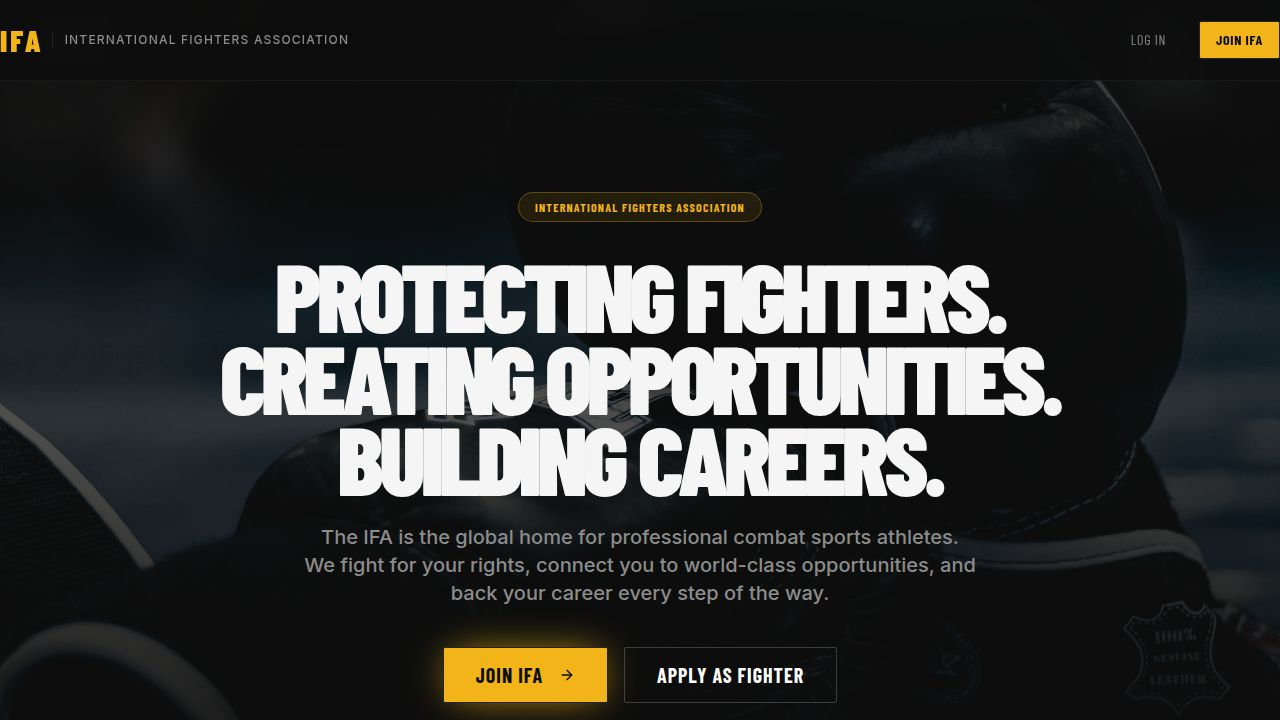
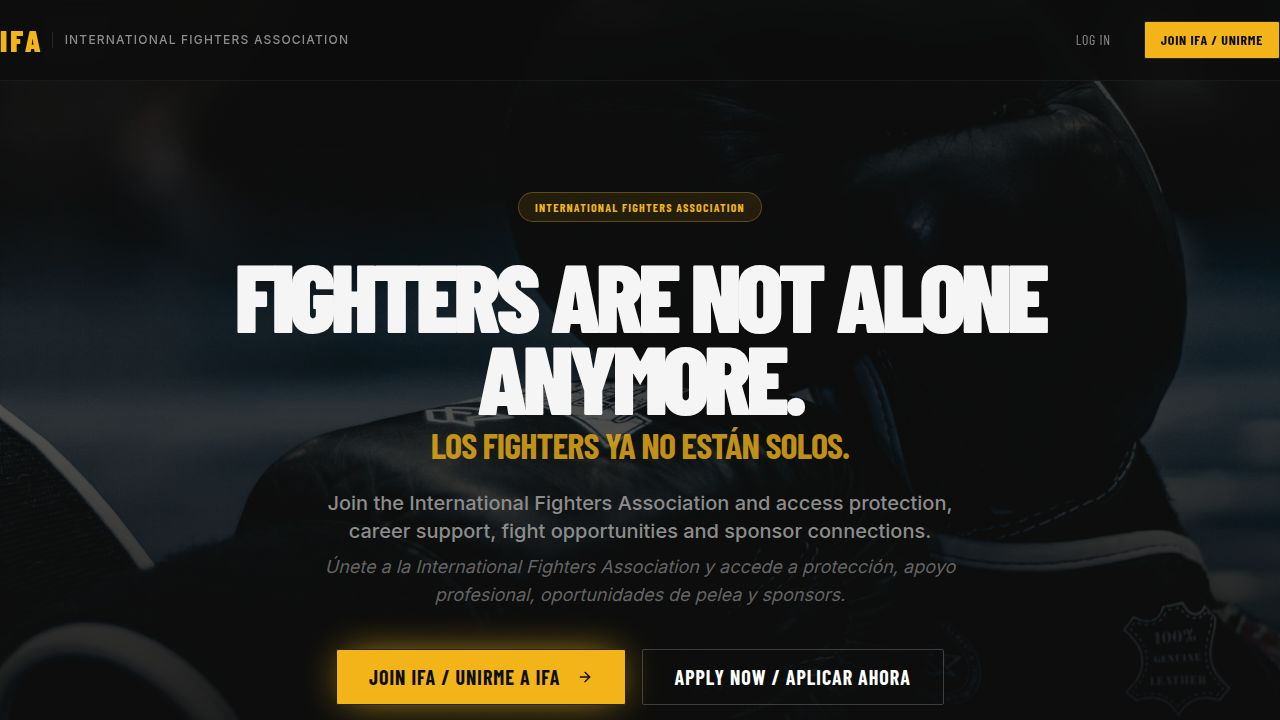
Task #4: Let admins search and filter the fighter applications list
Implemented server-side filtering for the admin fighter applications list:

OpenAPI spec (lib/api-spec/openapi.yaml):
- Added q, status, and discipline query params to GET /admin/fighter-applications

API server (artifacts/api-server/src/routes/admin.ts):
- Extended GET /admin/fighter-applications to accept q, status, discipline query params
- q performs case-insensitive ILIKE search on name and email columns via Drizzle ORM
- status filters by pending/approved/rejected with allowlist validation
- discipline performs case-insensitive ILIKE match
- Multiple active filters are combined with AND via Drizzle's and(...conditions)
- Fixed pre-existing TS2345 type error in requireAdmin (userId as string cast)

API client codegen (lib/api-client-react/src/generated/):
- Ran codegen to regenerate hooks and schemas from updated OpenAPI spec
- Generated AdminListFighterApplicationsParams type with q, status, discipline fields
- useAdminListFighterApplications hook now accepts optional params sent as query params

Frontend (artifacts/fighters-room/src/pages/admin-applications.tsx):
- State declarations moved before hook call to fix reference-before-declaration
- Added debouncedSearch state + useEffect (350ms debounce) to avoid API requests on every keystroke
- apiParams useMemo builds server-side filter object from debounced search, status, discipline
- useAdminListFighterApplications now receives apiParams for targeted API calls per filter change
[…]

Changed region(s): [[0.1562, 0.3667, 0.8438, 0.8556], [0.25, 0.8556, 0.7188, 1.0], [0.8438, 0.0306, 1.0, 0.0917]]

diff --git a/artifacts/fighters-room/src/pages/admin-applications.tsx b/artifacts/fighters-room/src/pages/admin-applications.tsx
@@ -5,6 +5,7 @@ import {
   useAdminSendPaymentLink,
   getAdminListFighterApplicationsQueryKey,
 } from "@workspace/api-client-react";
+import type { AdminListFighterApplicationsStatus } from "@workspace/api-client-react";
 import { Card, CardContent, CardHeader, CardTitle } from "@/components/ui/card";
 import { Badge } from "@/components/ui/badge";
 import { Button } from "@/components/ui/button";
@@ -16,7 +17,7 @@ import { useToast } from "@/hooks/use-toast";
 import { useQueryClient, useMutation } from "@tanstack/react-query";
 import { ShieldAlert, Search, CreditCard, Send, Link2, FlaskConical, CheckCircle2, AlertTriangle } from "lucide-react";
 import { format } from "date-fns";
-import { useState, useMemo } from "react";
+import { useState, useMemo, useEffect } from "react";
 
 // Inline fetcher for the test-email endpoint (not in generated hooks)
 async function postAdminTestEmail(): Promise<{ success?: boolean; sentTo?: string; error?: string; smtpConfig?: Record<string, unknown> }> {
@@ -39,9 +40,6 @@ function paymentBadge(ps: string) {
 }
 
 export default function AdminApplicationsPage() {
-  const { data: applications, isLoading } = useAdminListFighterApplications();
-  const updateApplication = useAdminUpdateFighterApplication();
-  const sendPaymentLink = useAdminSendPaymentLink();
   const { toast } = useToast();
   const qc = useQueryClient();
 
@@ -71,9 +69,27 @@ export default function AdminApplicationsPage() {
 
   // Search & filter state
   const [search, setSearch] = useState("");
+  const [debouncedSearch, setDebouncedSearch] = useState("");
   const [filterStatus, setFilterStatus] = useState<string>("all");
   const [filterCountry, setFilterCountry] = useState<string>("all");
   const [filterDiscipline, setFilterDiscipline] = useState<string>("all");
+
+  // Debounce the search query so we don't fire an API request on every keystroke
+  useEffect(() => {
+    const timer = setTimeout(() => setDebouncedSearch(search), 350);
+    return () => clearTimeout(timer);
+  }, [search]);
+
+  // Build API-level params — status, discipline, and text search are handled server-side
+  const apiParams = useMemo(() => ({
+    q: debouncedSearch.trim() || undefined,
+    status: (filterStatus !== "all" ? filterStatus : undefined) as AdminListFighterApplicationsStatus | undefined,
+    discipline: filterDiscipline !== "all" ? filterDiscipline : undefined,
+  }), [debouncedSearch, filterStatus, filterDiscipline]);
+
+  const { data: applications, isLoading } = useAdminListFighterApplications(apiParams);
+  const updateApplication = useAdminUpdateFighterApplication();
+  const sendPaymentLink = useAdminSendPaymentLink();
 
   const invalidate = () => {
     qc.invalidateQueries({ queryKey: getAdminListFighterApplicationsQueryKey() });
@@ -160,33 +176,21 @@ export default function AdminApplicationsPage() {
     );
   };
 
-  // Derive unique filter options from data
+  // Derive unique country options from the currently returned (already server-filtered) data
   const countries = useMemo(() => {
     if (!applications) return [];
     return Array.from(new Set(applications.map(a => a.country))).sort();
   }, [applications]);
 
-  const disciplines = useMemo(() => {
-    if (!applications) return [];
-    return Array.from(new Set(applications.map(a => a.discipline))).sort();
-  }, [applications]);
-
-  // Client-side filtering
+  // Derive unique discipline options from the full unfiltered dataset so the
+  // discipline dropdown stays stable regardless of other active filters.
+  // Server-side filtering handles status + discipline + search; we only apply
+  // country client-side since it isn't a server param.
   const filtered = useMemo(() => {
     if (!applications) return [];
-    const q = search.toLowerCase();
-    return applications.filter(app => {
-      const matchesSearch = !q || (
-        app.name.toLowerCase().includes(q) ||
-        app.email.toLowerCase().includes(q) ||
-        app.country.toLowerCase().includes(q)
-      );
-      const matchesStatus = filterStatus === "all" || app.status === filterStatus;
-      const matchesCountry = filterCountry === "all" || app.country === filterCountry;
-      const matchesDiscipline = filterDiscipline === "all" || app.discipline === filterDiscipline;
-      return matchesSearch && matchesStatus && matchesCountry && matchesDiscipline;
-    });
-  }, [applications, search, filterStatus, filterCountry, filterDiscipline]);
+    if (filterCountry === "all") return applications;
+    return applications.filter(app => app.country === filterCountry);
+  }, [applications, filterCountry]);
 
   const pending = applications?.filter(a => a.status === "pending").length ?? 0;
   const paid = applications?.filter(a => a.paymentStatus === "paid").length ?? 0;
@@ -282,7 +286,7 @@ export default function AdminApplicationsPage() {
             <Search className="absolute left-3 top-1/2 -translate-y-1/2 h-4 w-4 text-muted-foreground" />
             <Input
               className="bg-background pl-9 font-medium"
-              placeholder="Search by name, email or country..."
+              placeholder="Search by name or email..."
               value={search}
               onChange={e => setSearch(e.target.value)}
             />
@@ -322,7 +326,12 @@ export default function AdminApplicationsPage() {
                 </SelectTrigger>
                 <SelectContent>
                   <SelectItem value="all">All Disciplines</SelectItem>
-                  {disciplines.map(d => <SelectItem key={d} value={d}>{d}</SelectItem>)}
+                  <SelectItem value="Boxing">Boxing</SelectItem>
+                  <SelectItem value="MMA">MMA</SelectItem>
+                  <SelectItem value="Kickboxing">Kickboxing</SelectItem>
+                  <SelectItem value="Muay Thai">Muay Thai</SelectItem>
+                  <SelectItem value="Wrestling">Wrestling</SelectItem>
+                  <SelectItem value="Judo">Judo</SelectItem>
                 </SelectContent>
               </Select>
             </div>

diff --git a/artifacts/api-server/src/routes/admin.ts b/artifacts/api-server/src/routes/admin.ts
@@ -30,7 +30,7 @@ function requireAdmin(req: any, res: any, next: any) {
   }
 
   // Allow if userId is in admin list OR if no admins configured (dev mode)
-  if (ADMIN_CLERK_IDS.length > 0 && !ADMIN_CLERK_IDS.includes(userId)) {
+  if (ADMIN_CLERK_IDS.length > 0 && !ADMIN_CLERK_IDS.includes(userId as string)) {
     return res.status(403).json({ error: "Forbidden: Admin access required" });
   }
 
@@ -230,12 +230,41 @@ router.patch("/applications/:id/reject", requireAdmin, async (req: any, res: any
 });
 
 // GET /api/admin/fighter-applications — list all public fighter applications
+// Supports query params: q (search name/email), status, discipline
 router.get("/fighter-applications", requireAdmin, async (req: any, res: any) => {
   try {
+    const { q, status, discipline } = req.query as {
+      q?: string;
+      status?: string;
+      discipline?: string;
+    };
+
+    const conditions: SQL[] = [];
+
+    if (q && q.trim()) {
+      const term = `%${q.trim()}%`;
+      conditions.push(
+        or(
+          ilike(fighterApplicationsTable.name, term),
+          ilike(fighterApplicationsTable.email, term),
+        )!,
+      );
+    }
+
+    if (status && ["pending", "approved", "rejected"].includes(status)) {
+      conditions.push(eq(fighterApplicationsTable.status, status));
+    }
+
+    if (discipline && discipline.trim()) {
+      conditions.push(ilike(fighterApplicationsTable.discipline, discipline.trim()));
+    }
+
     const applications = await db
       .select()
       .from(fighterApplicationsTable)
+      .where(conditions.length > 0 ? and(...conditions) : undefined)
       .orderBy(fighterApplicationsTable.createdAt);
+
     return res.json(applications);
   } catch (err) {
     req.log.error({ err }, "Admin: failed to list fighter applications");

diff --git a/artifacts/fighters-room/src/pages/profile.tsx b/artifacts/fighters-room/src/pages/profile.tsx
@@ -45,8 +45,8 @@ type ProfileFormValues = z.infer<typeof profileSchema>;
 export default function ProfilePage() {
   const { data: profile, isLoading, error } = useGetMyProfile({
     query: {
+      queryKey: getGetMyProfileQueryKey(),
       retry: false,
-      queryKey: ["getMyProfile"],
     }
   });
   const isNewProfile = !!error && (error as any)?.response?.status === 404;